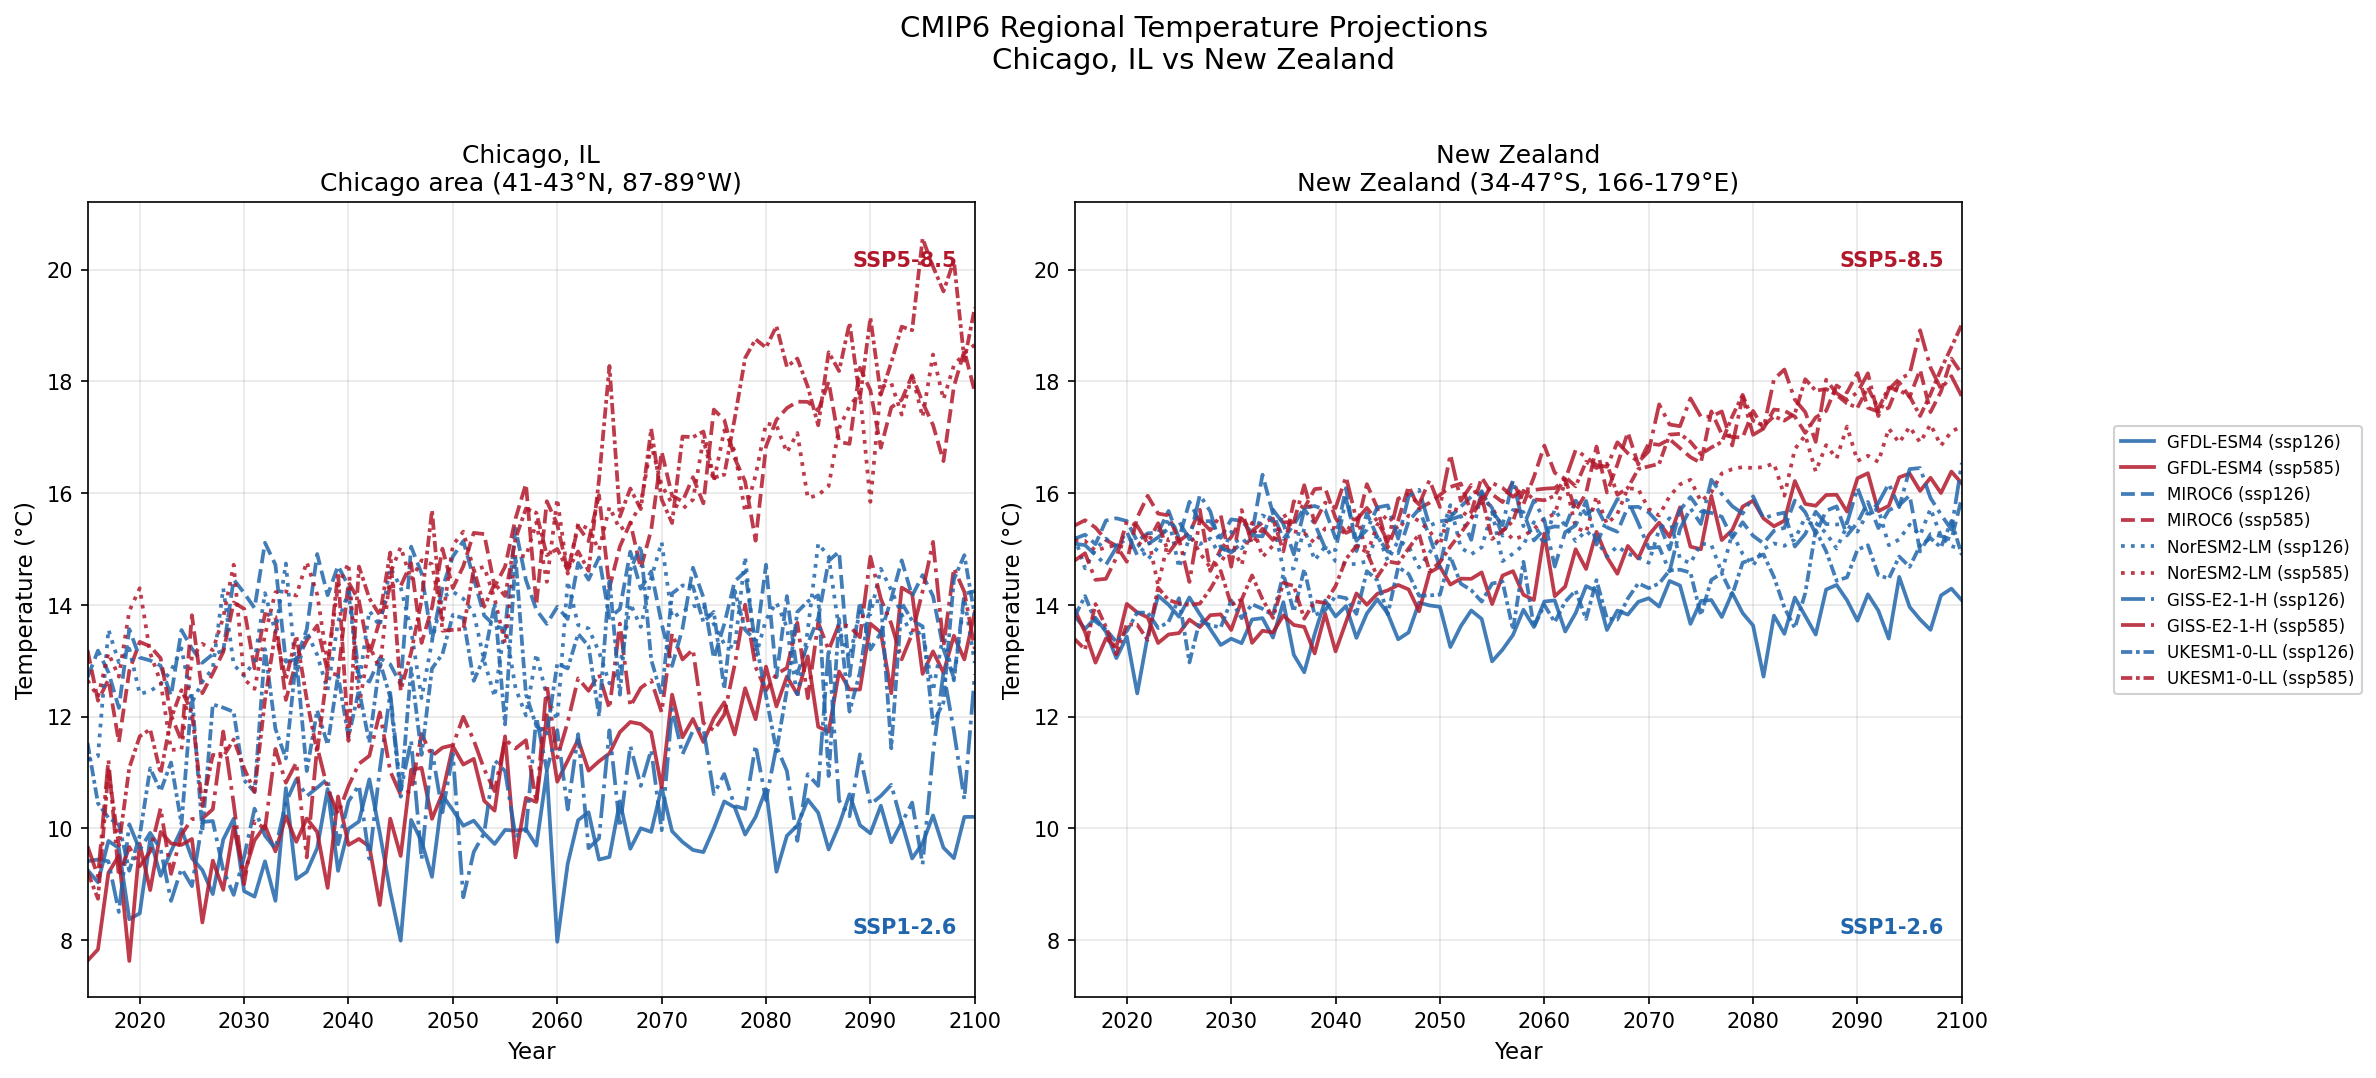
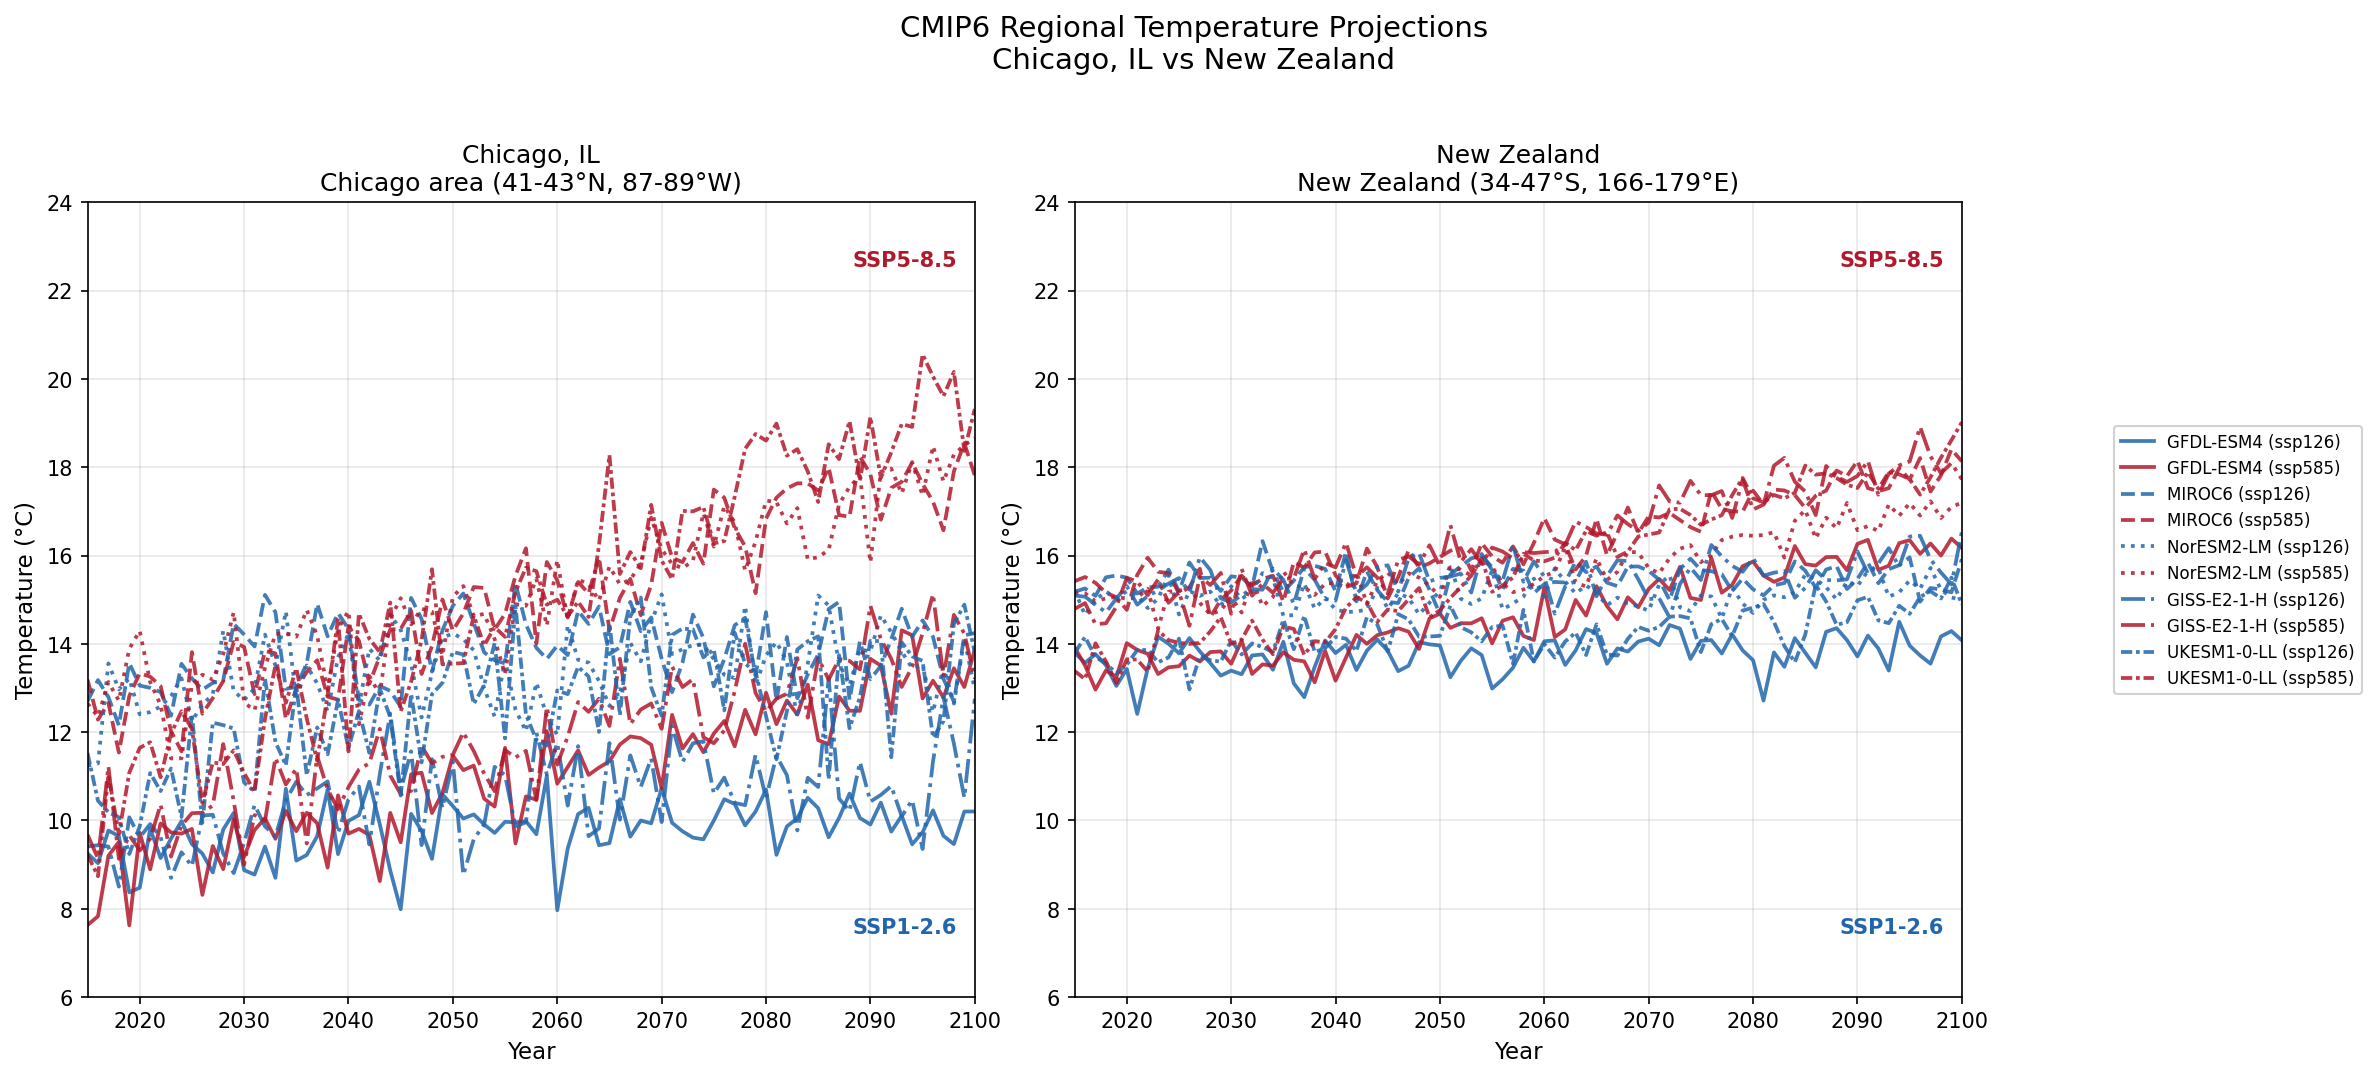
Use consistent y-axis range (6-24°C) for all regional temperature plots

diff --git a/examples/run_regional_analysis.py b/examples/run_regional_analysis.py
@@ -196,12 +196,9 @@ def main():
         ax.grid(True, alpha=0.3)
         ax.set_xlim(2015, 2100)
 
-    # Set same y-axis range for both plots
-    all_ylims = [ax.get_ylim() for ax in axes]
-    y_min = min(ylim[0] for ylim in all_ylims)
-    y_max = max(ylim[1] for ylim in all_ylims)
+    # Set same y-axis range for all regional plots (consistent across scripts)
     for ax in axes:
-        ax.set_ylim(y_min, y_max)
+        ax.set_ylim(6, 24)
 
     # Add scenario labels after setting ylim
     for ax in axes:
@@ -221,7 +218,7 @@ def main():
     plt.tight_layout()
     plt.subplots_adjust(right=0.82)
 
-    output_path = Path("temperature_regional.png")
+    output_path = Path("Artifacts/temperature_regional.png")
     plt.savefig(output_path, dpi=150, bbox_inches="tight", facecolor="white")
     print(f"\nSaved: {output_path.absolute()}")
 

diff --git a/examples/run_regional_chicago_nz.py b/examples/run_regional_chicago_nz.py
@@ -196,12 +196,9 @@ def main():
         ax.grid(True, alpha=0.3)
         ax.set_xlim(2015, 2100)
 
-    # Set same y-axis range for both plots
-    all_ylims = [ax.get_ylim() for ax in axes]
-    y_min = min(ylim[0] for ylim in all_ylims)
-    y_max = max(ylim[1] for ylim in all_ylims)
+    # Set same y-axis range for all regional plots (consistent across scripts)
     for ax in axes:
-        ax.set_ylim(y_min, y_max)
+        ax.set_ylim(6, 24)
 
     # Add scenario labels after setting ylim
     for ax in axes:
